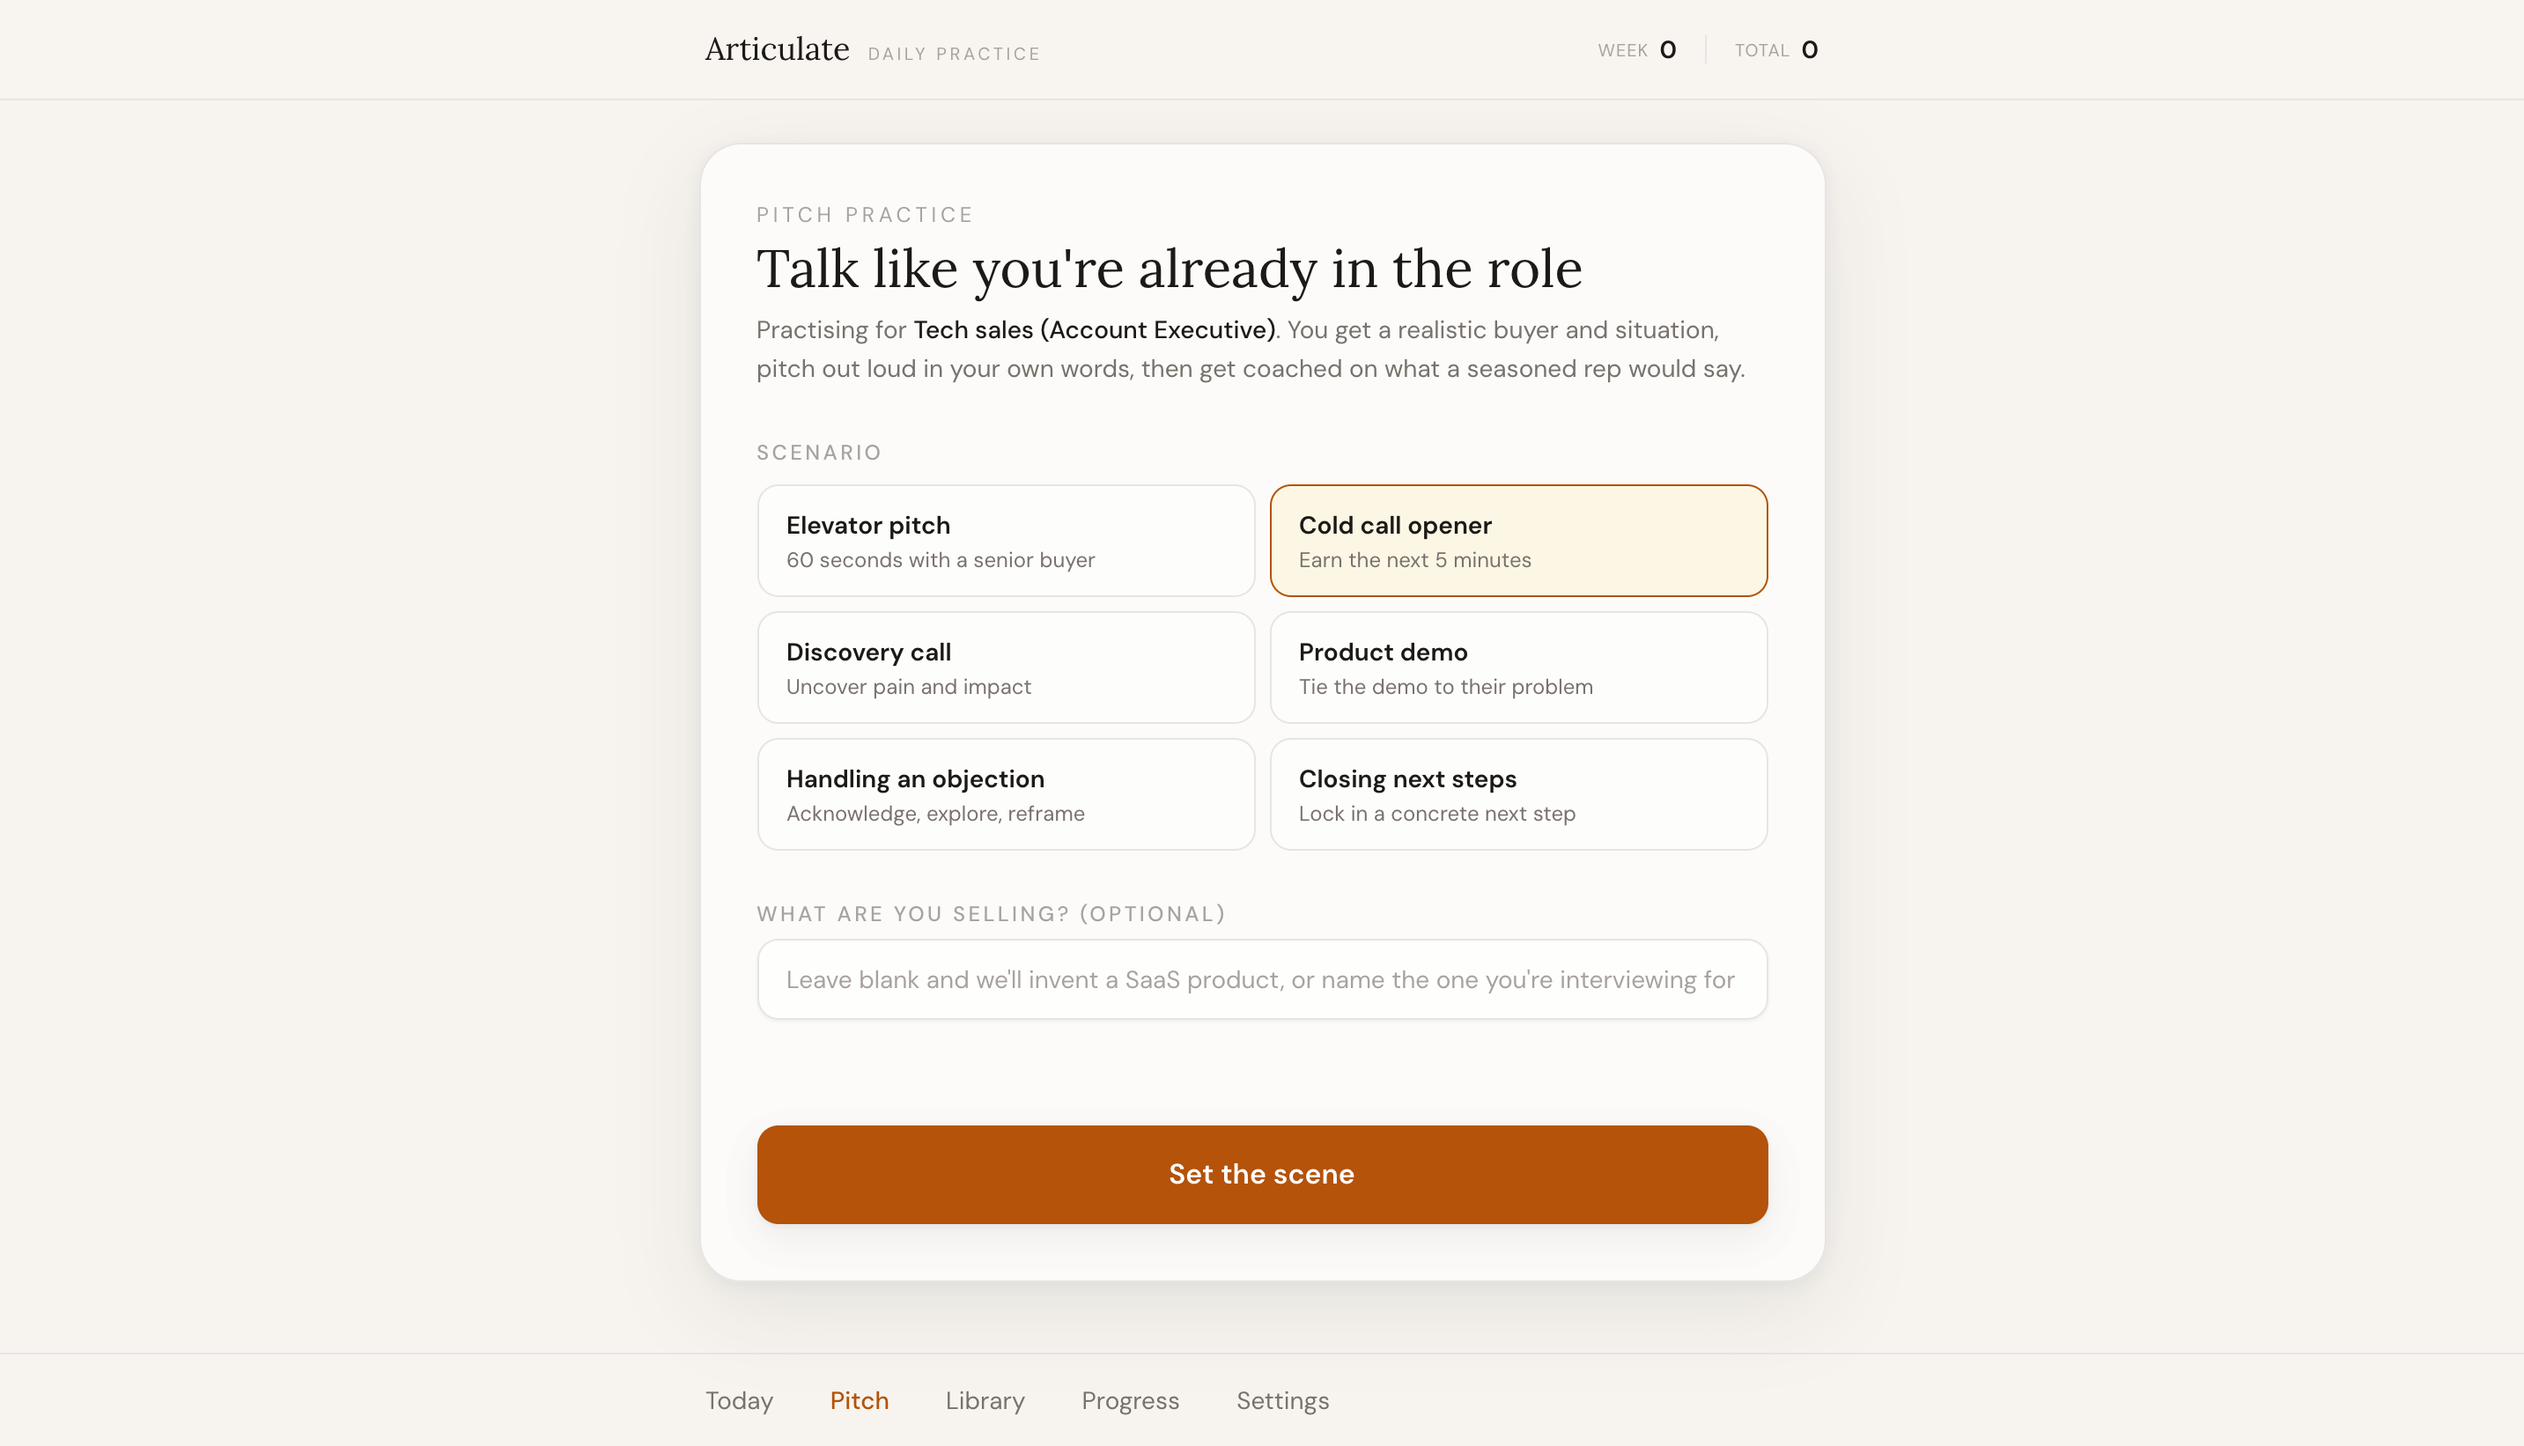
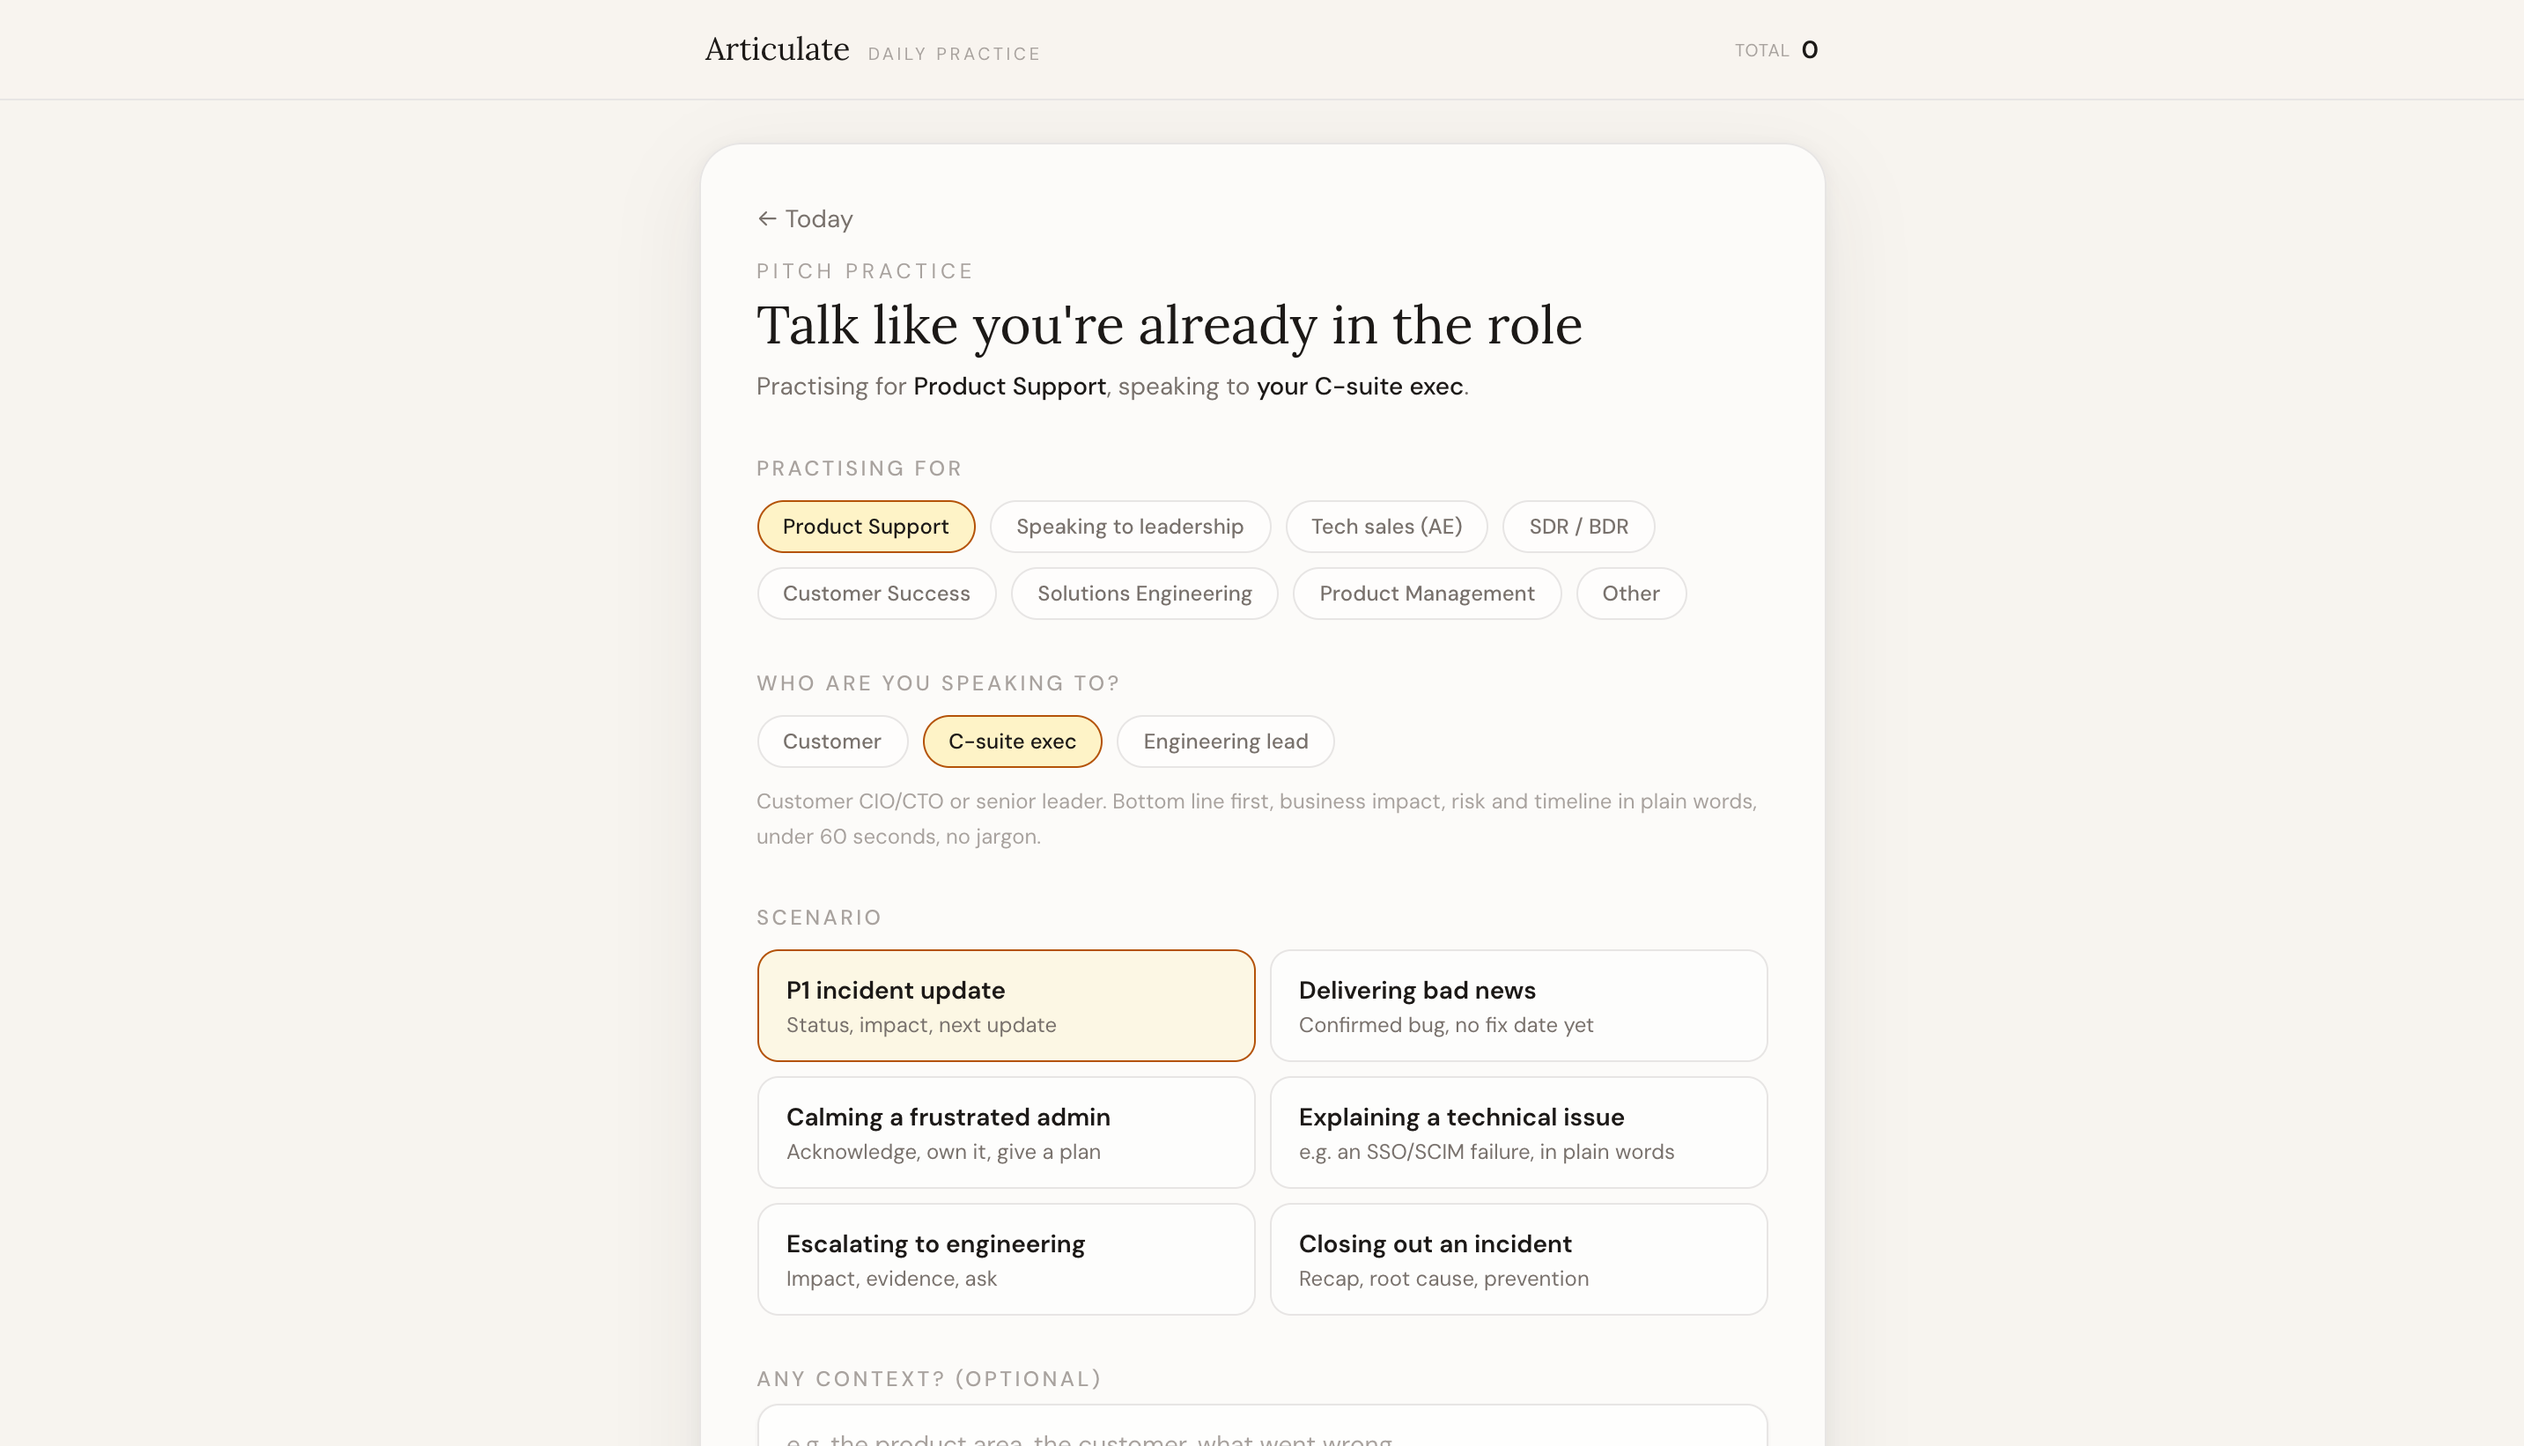
Update README pitch screenshots and description for goals and audiences

diff --git a/README.md b/README.md
@@ -34,7 +34,7 @@ Most of us know what we want to say. The gap is how we say it. The confidence, t
 
 **Career pivot mode** — changing careers? Tell Articulate the role you are moving into (tech sales, customer success, solutions engineering, product management, or anything else) and your daily passages are written in the voice of someone already doing that job. For sales roles that means discovery openers, objection talk tracks, and real sales vocabulary, so reading aloud trains the register you need in interviews and on calls.
 
-**Pitch practice** — role-play six real sales moments: elevator pitch, cold call opener, discovery call, product demo, handling an objection, and closing next steps. Claude builds a realistic buyer, situation, and likely objection, along with the beats to hit and phrases to try. You pitch out loud in your own words and get scored on structure, value focus, sales voice, and confidence. Then you see the exact lines that weakened you with stronger alternatives, plus a rewrite of your pitch in a seasoned rep's voice to read aloud before you try again.
+**Pitch practice** — rehearse the high-stakes moments of a job out loud. Pick what you are practising for (Product Support, speaking to leadership, tech sales, SDR, Customer Success, Solutions Engineering, Product Management, or your own), who you are speaking to (a customer, a C-suite exec, an engineering lead, a buyer, and more), and a scenario such as a P1 incident update, delivering bad news, a cold call opener, or a renewal at risk. Claude builds a realistic person, situation, and likely pushback, along with the beats to hit and phrases to try. You speak in your own words and get scored on structure, value, sounding the part, and confidence, including whether your detail and tone fit the audience. Then you see the exact lines that weakened you with stronger alternatives, plus a rewrite in a seasoned professional's voice to read aloud before you try again.
 
 ---
 
@@ -72,19 +72,19 @@ Most of us know what we want to say. The gap is how we say it. The confidence, t
 
 ![Complete](screenshots/06-see-you-tomorrow.png)
 
-### Pitch practice — pick a scenario
+### Pitch practice — what you are practising for, who you are speaking to, and the scenario
 
 ![Pitch setup](screenshots/08-pitch-setup.png)
 
-### Pitch practice — the buyer and situation
+### Pitch practice — the person and the situation
 
 ![Pitch scenario](screenshots/09-pitch-scenario.png)
 
-### Pitch practice — scored on structure, value, sales voice, and confidence
+### Pitch practice — scored on structure, value, sounding the part, and confidence
 
 ![Pitch feedback](screenshots/10-pitch-feedback.png)
 
-### Pitch practice — stronger lines and a seasoned rep's rewrite
+### Pitch practice — stronger lines and a seasoned professional's rewrite
 
 ![Pitch rewrite](screenshots/11-pitch-rewrite.png)
 
